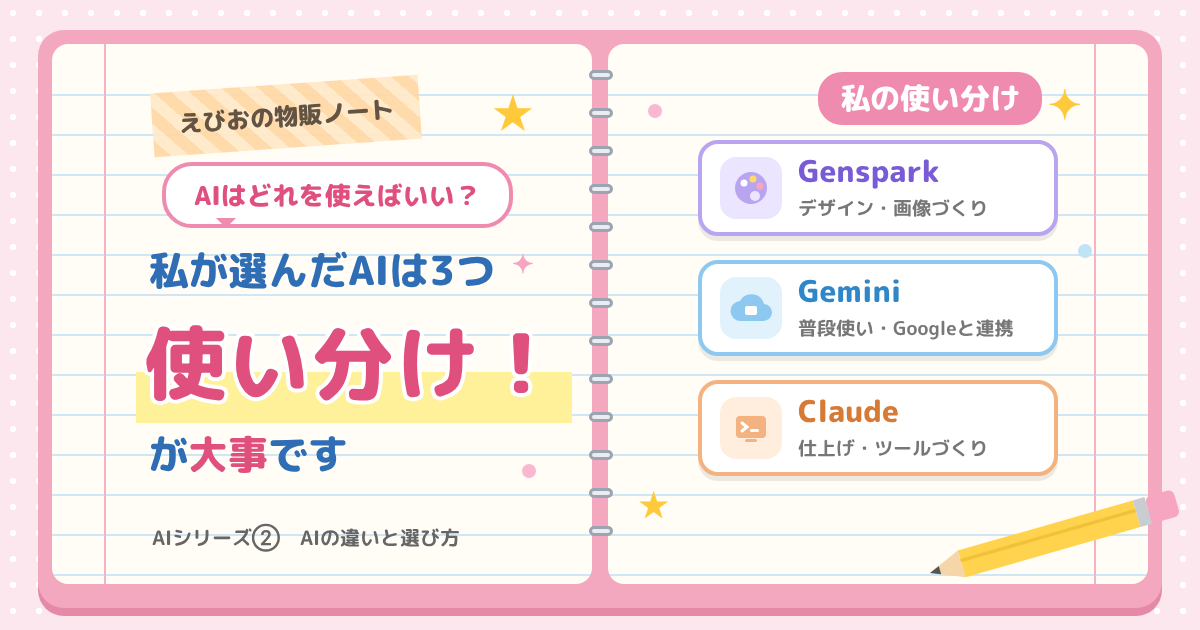
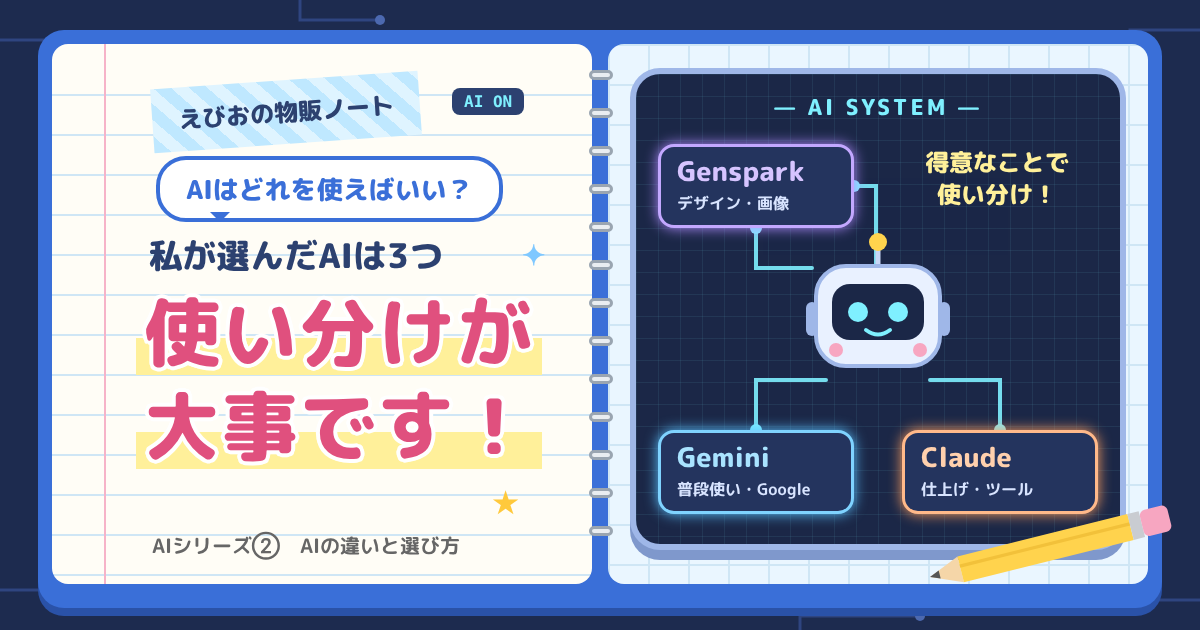
AIシリーズ②：タイトルを案2に決定、アイキャッチをAIっぽいデザインに作り直し
Claude-Session: https://claude.ai/code/session_012VVB44b4wcKUxQRbVr5W9d

diff --git a/posts/2026-10-13-ai-erabikata.html b/posts/2026-10-13-ai-erabikata.html
@@ -1,12 +1,13 @@
 <!--
+決まったタイトル：AIはどれを使えばいい？ChatGPT・Gemini・Claudeの違いと選び方
 タイトル案1：ChatGPTはもう使っていない！？えびおが選んだAIは3つでした
 タイトル案2：AIはどれを使えばいい？ChatGPT・Gemini・Claudeの違いと選び方
 タイトル案3：有料AIを3つ使う私の答え。物販のAIは「使い分け」が正解でした
 カテゴリー：ブログ（AIシリーズ①と同じ）
 スラッグ：ai-erabikata
 シリーズ：AIシリーズ②（資料は shiryo/ai-series.md）
-アイキャッチの代替テキスト：えびおの物販ノート　AIはどれを使えばいい？　私が選んだAIは3つ　使い分け！が大事です　AIシリーズ②　AIの違いと選び方　私の使い分け　Genspark デザイン・画像づくり　Gemini 普段使い・Googleと連携　Claude 仕上げ・ツールづくり
-WordPress の下書き：1700番（タイトルは案1で仮に入れた）
+アイキャッチの代替テキスト：えびおの物販ノート　AIはどれを使えばいい？　私が選んだAIは3つ　使い分けが大事です！　AIシリーズ②　AIの違いと選び方　AI SYSTEM　得意なことで使い分け！　Genspark デザイン・画像　Gemini 普段使い・Google　Claude 仕上げ・ツール
+WordPress の下書き：1700番（タイトルは案2に決定）
 ※ふきだし・囲み枠は Cocoon の見た目を使うため「カスタムHTML」のブロックで入れている
 -->
 
